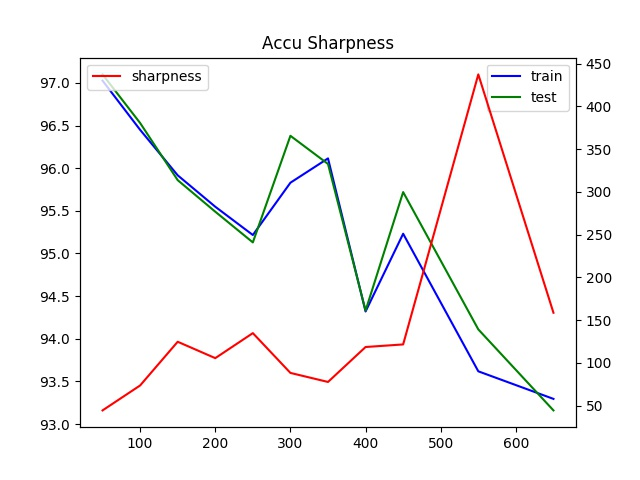
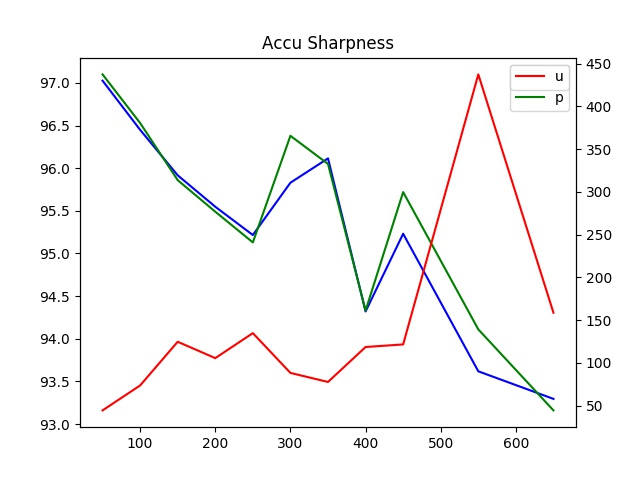
dkjf

Changed region(s): [[0.125, 0.125, 0.3125, 0.1875], [0.75, 0.125, 0.875, 0.2188]]

diff --git a/hw1/1-3/1-3-3-2/plot.py b/hw1/1-3/1-3-3-2/plot.py
@@ -29,8 +29,8 @@ ax1.plot(dm.data['train'][:,0],dm.data['train'][:,1],c='b',label='train')
 ax1.plot(dm.data['test'][:,0],dm.data['test'][:,1],c='g',label='test')
 ax2.plot(dm.data['train'][:,0],dm.data['train'][:,3],c='r',label='sensitivity')
 plt.title('Loss Sensitivity')
-ax1.legend()
-ax2.legend()
+ax1.legend('upper right')
+ax2.legend('upper left')
 plt.savefig(args.selo)
 ############################################################
 #               plot accu                                  #
@@ -41,8 +41,8 @@ ax1.plot(dm.data['train'][:,0],dm.data['train'][:,2],c='b',label='train')
 ax1.plot(dm.data['test'][:,0],dm.data['test'][:,2],c='g',label='test')
 ax2.plot(dm.data['train'][:,0],dm.data['train'][:,3],c='r',label='sensitivity')
 plt.title('Accu Sensitivity')
-ax1.legend()
-ax2.legend()
+ax1.legend('upper right')
+ax2.legend('upper left')
 plt.savefig(args.seao)
 ############################################################
 #               plot loss                                  #
@@ -53,8 +53,8 @@ ax1.plot(dm.data['train'][:,0],dm.data['train'][:,1],c='b',label='train')
 ax1.plot(dm.data['test'][:,0],dm.data['test'][:,1],c='g',label='test')
 ax2.plot(dm.data['train'][:,0],dm.data['train'][:,4],c='r',label='sharpness')
 plt.title('Loss Sharpness')
-ax1.legend()
-ax2.legend()
+ax1.legend('upper right')
+ax2.legend('upper left')
 plt.savefig(args.shlo)
 ############################################################
 #               plot accu                                  #
@@ -65,6 +65,6 @@ ax1.plot(dm.data['train'][:,0],dm.data['train'][:,2],c='b',label='train')
 ax1.plot(dm.data['test'][:,0],dm.data['test'][:,2],c='g',label='test')
 ax2.plot(dm.data['train'][:,0],dm.data['train'][:,4],c='r',label='sharpness')
 plt.title('Accu Sharpness')
-ax1.legend()
-ax2.legend()
+ax1.legend('upper right')
+ax2.legend('upper left')
 plt.savefig(args.shao)
